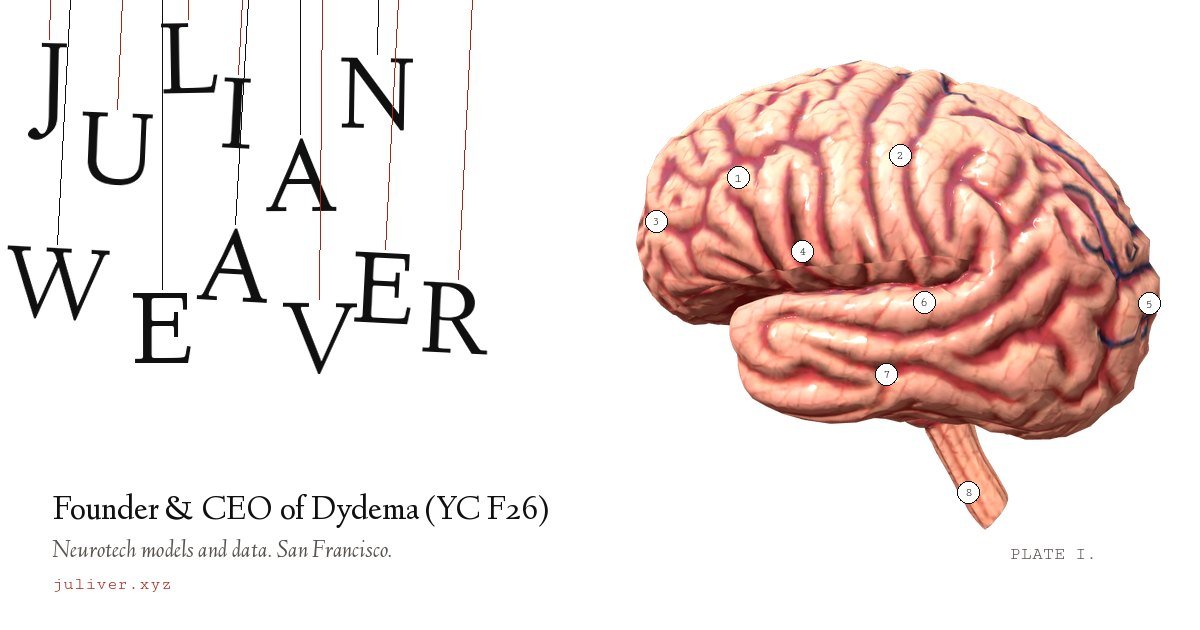
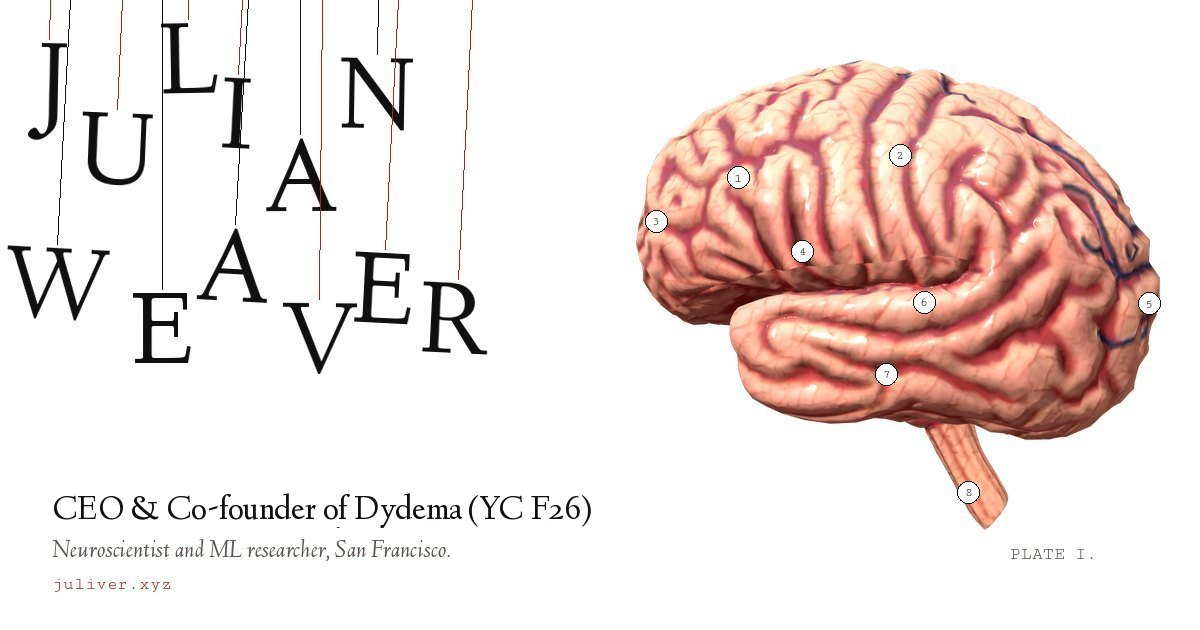
New site: specimen plate, fluid, SEO

Changed region(s): [[0.0308, 0.7841, 0.4933, 0.9048]]

diff --git a/docs/index.html b/docs/index.html
@@ -4,8 +4,8 @@
     <meta charset="UTF-8">
     <meta name="viewport" content="width=device-width, initial-scale=1">
 
-    <title>Julian Weaver (juliver) | Founder &amp; CEO of Dydema</title>
-    <meta name="description" content="Julian Weaver (juliver) is the founder and CEO of Dydema (YC F26), a neurotech model and data company. Neuroscientist and ML researcher in San Francisco.">
+    <title>Julian Weaver (juliver) | Co-founder &amp; CEO of Dydema</title>
+    <meta name="description" content="Julian Weaver (juliver) is the CEO and co-founder of Dydema (YC F26), a neurotech model and data company. Neuroscientist and ML researcher in San Francisco.">
     <meta name="author" content="Julian Weaver">
     <meta name="robots" content="index, follow, max-image-preview:large">
     <link rel="canonical" href="https://juliver.xyz/">
@@ -14,21 +14,21 @@
     <meta property="og:type" content="profile">
     <meta property="og:site_name" content="juliver.xyz">
     <meta property="og:url" content="https://juliver.xyz/">
-    <meta property="og:title" content="Julian Weaver (juliver) | Founder &amp; CEO of Dydema">
-    <meta property="og:description" content="Founder &amp; CEO of Dydema (YC F26), a neurotech model and data company. Neuroscientist and ML researcher in San Francisco.">
+    <meta property="og:title" content="Julian Weaver (juliver) | Co-founder &amp; CEO of Dydema">
+    <meta property="og:description" content="CEO &amp; co-founder of Dydema (YC F26), a neurotech model and data company. Neuroscientist and ML researcher in San Francisco.">
     <meta property="og:image" content="https://juliver.xyz/assets/images/julian-weaver-og.jpg">
     <meta property="og:image:width" content="1200">
     <meta property="og:image:height" content="630">
-    <meta property="og:image:alt" content="Julian Weaver, Founder &amp; CEO of Dydema">
+    <meta property="og:image:alt" content="Julian Weaver, CEO &amp; co-founder of Dydema">
     <meta property="og:locale" content="en_US">
     <meta property="profile:first_name" content="Julian">
     <meta property="profile:last_name" content="Weaver">
     <meta property="profile:username" content="juliver">
     <meta name="twitter:card" content="summary_large_image">
-    <meta name="twitter:site" content="@juliverian">
-    <meta name="twitter:creator" content="@juliverian">
-    <meta name="twitter:title" content="Julian Weaver (juliver) | Founder &amp; CEO of Dydema">
-    <meta name="twitter:description" content="Founder &amp; CEO of Dydema (YC F26), a neurotech model and data company.">
+    <meta name="twitter:site" content="@real_juliver">
+    <meta name="twitter:creator" content="@real_juliver">
+    <meta name="twitter:title" content="Julian Weaver (juliver) | Co-founder &amp; CEO of Dydema">
+    <meta name="twitter:description" content="CEO &amp; co-founder of Dydema (YC F26), a neurotech model and data company.">
     <meta name="twitter:image" content="https://juliver.xyz/assets/images/julian-weaver-og.jpg">
 
     <link rel="icon" href="/favicon.ico" sizes="any">
@@ -65,7 +65,7 @@
             "@type": "ProfilePage",
             "@id": "https://juliver.xyz/#profilepage",
             "url": "https://juliver.xyz/",
-            "name": "Julian Weaver (juliver) | Founder & CEO of Dydema",
+            "name": "Julian Weaver (juliver) | Co-founder & CEO of Dydema",
             "isPartOf": {
                 "@id": "https://juliver.xyz/#website"
             },
@@ -96,11 +96,11 @@
                 "height": 330,
                 "caption": "Julian Weaver"
             },
-            "jobTitle": "Founder & CEO",
+            "jobTitle": "CEO & Co-founder",
             "worksFor": {
                 "@id": "https://dydema.com/#organization"
             },
-            "description": "Julian Weaver (juliver) is the founder and CEO of Dydema (YC F26), a neurotech model and data company that serves general embedding models for neurotech and records neurodata for other teams. He is a neuroscientist and machine learning researcher based in San Francisco.",
+            "description": "Julian Weaver (juliver) is the CEO and co-founder of Dydema (YC F26), a neurotech model and data company that serves general embedding models for neurotech modalities like EEG and records neurodata for other teams. He is a neuroscientist and machine learning researcher based in San Francisco.",
             "birthDate": "2004-11-23",
             "email": "mailto:juliver@dydema.com",
             "homeLocation": {
@@ -133,14 +133,13 @@
             ],
             "sameAs": [
                 "https://www.linkedin.com/in/julian-weaver/",
-                "https://x.com/juliverian",
+                "https://x.com/real_juliver",
                 "https://github.com/weavejul",
-                "https://juliverian.substack.com/",
                 "https://bsky.app/profile/juliverian.bsky.social",
                 "https://www.instagram.com/official_julian_weaver/",
                 "https://orcid.org/0009-0008-6358-170X"
             ],
-            "disambiguatingDescription": "Founder and CEO of Dydema; neuroscientist and machine learning researcher in San Francisco.",
+            "disambiguatingDescription": "CEO and co-founder of Dydema; neuroscientist and machine learning researcher in San Francisco.",
             "identifier": {
                 "@type": "PropertyValue",
                 "propertyID": "ORCID",
@@ -155,7 +154,7 @@
             "@id": "https://dydema.com/#organization",
             "name": "Dydema",
             "url": "https://dydema.com/",
-            "description": "Dydema is a neurotech model and data company. It serves general embedding models for neurotech and records neurodata for other teams.",
+            "description": "Dydema is a neurotech model and data company. It serves general embedding models for neurotech modalities like EEG and records neurodata for other teams.",
             "founder": {
                 "@id": "https://juliver.xyz/#person"
             }
@@ -246,17 +245,17 @@
         .hero { position: relative; height: 100vh; height: 100svh; min-height: 560px; overflow: hidden; touch-action: pan-y; }
         .name { margin: 0; font: inherit; position: absolute; inset: 0; text-transform: uppercase; }
         .name .l {
-            --L: calc(var(--len) * 1svh);
-            position: absolute; top: 0; left: var(--x); width: 0; height: calc(var(--L) + 1em);
+            --L: calc(var(--len) * 1svh); --dx: 0em; --ay: 0.045em;
+            position: absolute; top: 0; left: calc(var(--x) - var(--dx)); width: 0; height: calc(var(--L) + 1em);
             font-family: var(--serif); font-size: clamp(4.4rem, 10vw, 12rem); line-height: 1;
             transform-origin: 0 0; will-change: transform;
         }
         .name .l::before {
-            content: ''; position: absolute; left: 0; top: 0; width: 1px; height: calc(var(--L) + 0.14em);
+            content: ''; position: absolute; left: 0; top: 0; width: 1px; height: calc(var(--L) + 0.02em);
             background: var(--ink); opacity: 0.5;
         }
         .name .jv::before { background: var(--blood); opacity: 0.9; }
-        .name .g { position: absolute; top: var(--L); left: 0; transform: translateX(-50%); cursor: grab; user-select: none; -webkit-user-select: none; touch-action: none; }
+        .name .g { position: absolute; top: calc(var(--L) - var(--ay)); left: var(--dx); transform: translateX(-50%); cursor: grab; user-select: none; -webkit-user-select: none; touch-action: none; }
         .name .l.held .g { cursor: grabbing; color: var(--blood); }
         .hero p { margin: 0; position: absolute; }
         .hero-role { right: var(--gutter); bottom: 5svh; width: min(25rem, 36vw); text-align: right; font-size: clamp(1.05rem, 1.3vw, 1.3rem); line-height: 1.35; }
@@ -371,7 +370,7 @@
         /* ---------------- Contact ---------------- */
         .contact { padding: clamp(4rem, 12vh, 8rem) var(--gutter) 2rem; display: grid; grid-template-columns: 1fr auto; gap: 2rem 4rem; align-items: end; border-top: 1px solid var(--ink); }
         .contact h2 { font-weight: 400; margin: 0 0 1rem; color: var(--ink-2); }
-        .big-mail { margin: 0; font-size: clamp(2.2rem, 7.6vw, 7.4rem); line-height: 0.95; letter-spacing: -0.015em; overflow-wrap: anywhere; }
+        .big-mail { margin: 0; font-size: clamp(2.2rem, 7.6vw, 7.4rem); line-height: 0.95; letter-spacing: -0.015em; overflow-wrap: break-word; }
         .big-mail a { text-decoration: none; }
         .contact .where { margin: 0.8rem 0 0; }
         .contact .elsewhere { margin: 1.6rem 0 0; font-size: 1.15rem; max-width: 40rem; }
@@ -383,13 +382,15 @@
         .foot p { margin: 0; }
 
         @media (max-width: 700px) {
-            .name .l { left: var(--xm); --L: calc(var(--lenm) * 1svh); font-size: 17vw; }
+            .name .l { left: calc(var(--xm) - var(--dx)); --L: calc(var(--lenm) * 1svh); font-size: 17vw; }
             .hero-role { left: var(--gutter); right: var(--gutter); bottom: calc(5svh + 2.2rem); width: auto; text-align: left; }
             .dydema, .index { grid-template-columns: 1fr; }
             .dydema > .t, .index > h2 { padding-top: 0; }
             .dydema .coda { grid-column: 1; }
             .ix li { flex-direction: column; gap: 0; }
             .ix .k { text-align: left; white-space: normal; }
+        }
+        @media (max-width: 900px) {
             .contact { grid-template-columns: 1fr; }
         }
         @media (prefers-reduced-motion: reduce) {
@@ -401,9 +402,9 @@
     <a class="skip" href="#dydema">Skip to content</a>
 
     <header class="hero">
-        <h1 class="name"><span class="l jv" style="--x:5%;--len:9;--xm:5%;--lenm:6"><span class="g">J</span></span><span class="l jv" style="--x:13.5%;--len:21;--xm:21%;--lenm:13"><span class="g">u</span></span><span class="l jv" style="--x:21%;--len:5;--xm:36%;--lenm:4"><span class="g">l</span></span><span class="l jv" style="--x:28%;--len:15;--xm:48%;--lenm:10"><span class="g">i</span></span><span class="l" style="--x:35.5%;--len:25;--xm:63%;--lenm:16"><span class="g">a</span></span><span class="l" style="--x:45%;--len:11;--xm:81%;--lenm:7"><span class="g">n</span></span> <span class="l" style="--x:24%;--len:46;--xm:9%;--lenm:34"><span class="g">W</span></span><span class="l" style="--x:37%;--len:53;--xm:27%;--lenm:41"><span class="g">e</span></span><span class="l" style="--x:48.5%;--len:42;--xm:43%;--lenm:31"><span class="g">a</span></span><span class="l jv" style="--x:60%;--len:50;--xm:57%;--lenm:43"><span class="g">v</span></span><span class="l jv" style="--x:71%;--len:43;--xm:72%;--lenm:36"><span class="g">e</span></span><span class="l jv" style="--x:82%;--len:48;--xm:87%;--lenm:40"><span class="g">r</span></span></h1>
+        <h1 class="name"><span class="l jv" style="--x:5%;--len:9;--xm:5%;--lenm:6"><span class="g">J</span></span><span class="l jv" style="--x:13.5%;--len:21;--xm:21%;--lenm:13;--dx:0.215em"><span class="g">u</span></span><span class="l jv" style="--x:21%;--len:5;--xm:36%;--lenm:4;--dx:0.136em"><span class="g">l</span></span><span class="l jv" style="--x:28%;--len:15;--xm:48%;--lenm:10"><span class="g">i</span></span><span class="l" style="--x:35.5%;--len:25;--xm:63%;--lenm:16;--ay:0.021em"><span class="g">a</span></span><span class="l" style="--x:45%;--len:11;--xm:81%;--lenm:7;--dx:-0.238em"><span class="g">n</span></span> <span class="l" style="--x:24%;--len:46;--xm:11%;--lenm:34"><span class="g">W</span></span><span class="l" style="--x:37%;--len:53;--xm:27%;--lenm:41"><span class="g">e</span></span><span class="l" style="--x:48.5%;--len:42;--xm:43%;--lenm:31;--ay:0.021em"><span class="g">a</span></span><span class="l jv" style="--x:60%;--len:50;--xm:57%;--lenm:43;--dx:0.229em"><span class="g">v</span></span><span class="l jv" style="--x:71%;--len:43;--xm:72%;--lenm:36"><span class="g">e</span></span><span class="l jv" style="--x:82%;--len:48;--xm:87%;--lenm:40;--ay:0.05em"><span class="g">r</span></span></h1>
 
-        <p class="hero-role"><span class="co">Founder &amp; CEO of <a href="https://dydema.com/">Dydema</a></span>We make neuro models and record neurodata. YC F26.<br>I'm a neuroscientist and ML researcher in San Francisco.<br><a class="mail" href="mailto:juliver@dydema.com">juliver@dydema.com</a></p>
+        <p class="hero-role"><span class="co">CEO &amp; Co-founder of <a href="https://dydema.com/">Dydema</a></span>We make neuro models and record neurodata. YC F26.<br>I'm a neuroscientist and ML researcher based in SF.<br><a class="mail" href="mailto:juliver@dydema.com">juliver@dydema.com</a></p>
         <p class="hero-alias t"><b>JULI</b>an wea<b>VER</b>, or juliver</p>
     </header>
 
@@ -413,18 +414,18 @@
             <div>
                 <h2 class="headword" id="dydema-h"><a href="https://dydema.com/">Dydema</a><i>n.</i></h2>
                 <ol class="senses">
-                    <li><em>Models.</em> We make general embedding models for neurotech and serve them to other teams.</li>
+                    <li><em>Models.</em> We serve general embedding models for neurotech modalities like EEG.</li>
                     <li><em>Data.</em> We record neurodata for other teams.</li>
                 </ol>
             </div>
-            <p class="coda">I'm the founder and CEO. We're in Y Combinator's F26 batch. <a href="https://dydema.com/">dydema.com</a></p>
+            <p class="coda">I'm CEO and co-founder. We're in Y Combinator's F26 batch. <a href="https://dydema.com/">dydema.com</a></p>
         </section>
 
         <section class="plate" id="brain" aria-labelledby="plate-h">
             <div class="plate-head">
                 <div>
                     <p class="t" style="margin:0">PLATE I.</p>
-                    <h2 id="plate-h">Hey! I'm Julian Weaver's brain.</h2>
+                    <h2 id="plate-h">Hey! I'm Juliver's brain.</h2>
                 </div>
                 <p class="t">Left lateral view. Drag to rotate.<br><span id="poke">Do you typically poke at exposed brain matter?</span></p>
             </div>
@@ -440,27 +441,27 @@
                     <li class="lab lab-motor" data-r="motor">
                         <h3><span class="num">2</span>Precentral gyrus</h3>
                         <p class="fn">movement</p>
-                        <p class="fact">I rock climb. I also built an electric guitar, and led the design of a cheap, open-source EEG headset for hobbyists and researchers. It has outlived my time at UT!</p>
+                        <p class="fact">I rock climb. On the weekends you can often catch me at an SF techno event.</p>
                     </li>
                     <li class="lab lab-frontalpole" data-r="frontalpole">
                         <h3><span class="num">3</span>Frontal pole</h3>
-                        <p class="fn">thinking about the future</p>
-                        <p class="fact">I care about what I call &ldquo;intelligence&rdquo; safety. That is, safety in how we build our AI models and, just as importantly in my opinion, how we interact with the brain. Both are ripe with the potential for <span class="wavy">man made horrors</span>. We need to tread carefully!</p>
+                        <p class="fn">prospection</p>
+                        <p class="fact">I care about &ldquo;intelligence&rdquo; safety. That is, safety in how we build our AI models and, just as importantly in my opinion, how we interact with the brain. Both are ripe with the potential for <span class="wavy">man made horrors</span>. Tread carefully.</p>
                     </li>
                     <li class="lab lab-broca" data-r="broca">
                         <h3><span class="num">4</span>Broca's area</h3>
                         <p class="fn">speech</p>
-                        <p class="fact">I co-founded <a href="https://www.linkedin.com/company/lhneurotech">Longhorn Neurotech</a> during my time at UT Austin. My goal was to educate as many people as possible on the opportunities and dangers of neurotechnology and AI, and it grew into the largest organization of its kind in the world. I also launched a short <a href="https://github.com/LonghornNeurotech/LHNT-Synposium/tree/main">lecture series</a> on NeuroAI, neurotech, and ethics.</p>
+                        <p class="fact">I co-founded <a href="https://www.linkedin.com/company/lhneurotech">Longhorn Neurotech</a> during my time at UT Austin. My goal was to educate as many people as possible on the opportunities and dangers of neurotechnology and AI, and it grew into the largest organization of its kind in the world. I also launched and taught a <a href="https://github.com/LonghornNeurotech/LHNT-Synposium/tree/main">lecture series</a> on NeuroAI, neurotech, and ethics.</p>
                     </li>
                     <li class="lab lab-visual" data-r="visual">
                         <h3><span class="num">5</span>Occipital pole</h3>
                         <p class="fn">vision</p>
-                        <p class="fact">At UT I launched a project using XAI and neuroimaging to explain black-box fMRI models that classify neurological disorders. It's ongoing, and it yielded a new general-purpose XAI method, <a href="https://arxiv.org/abs/2509.23585">EVO-LRP</a>.</p>
+                        <p class="fact">At UT I launched a project using XAI and neuroimaging to explain black-box fMRI models that classify neurological disorders. It yielded a new general-purpose XAI method, <a href="https://arxiv.org/abs/2509.23585">EVO-LRP</a>.</p>
                     </li>
                     <li class="lab lab-auditory" data-r="auditory">
                         <h3><span class="num">6</span>Superior temporal gyrus</h3>
                         <p class="fn">hearing</p>
-                        <p class="fact">I produce music. I've led a string quartet and performed at the Kennedy Center for the US Senate.</p>
+                        <p class="fact">I produce music. I've led a string quartet and performed at the Kennedy Center.</p>
                     </li>
                     <li class="lab lab-hippocampus" data-r="hippocampus">
                         <h3><span class="num">7</span>Hippocampus (deep)</h3>
@@ -503,27 +504,20 @@
         <section class="index" id="index" aria-labelledby="index-h">
             <h2 class="t" id="index-h">Index</h2>
             <ul class="ix">
-                <li><a class="n" href="https://dydema.com/">Dydema</a><span class="k t">company, founder &amp; CEO</span></li>
-                <li><a class="n" href="https://arxiv.org/abs/2509.23585">EVO-LRP: Evolutionary Optimization of LRP for Interpretable Model Explanations</a><span class="k t">paper, 2025</span></li>
-                <li><span class="n">Explaining black-box fMRI models</span><span class="k t">research, UT Austin</span></li>
-                <li><a class="n" href="https://www.linkedin.com/company/lhneurotech">Longhorn Neurotech</a><span class="k t">co-founder</span></li>
-                <li><a class="n" href="https://github.com/LonghornNeurotech/LHNT-Synposium/tree/main">Lecture series on NeuroAI, neurotech &amp; ethics</a><span class="k t">talks</span></li>
-                <li><span class="n">Open-source EEG headset</span><span class="k t">hardware, design lead</span></li>
-                <li><span class="n">Enhanced RNA import and associative learning in <i>C.&nbsp;elegans</i></span><span class="k t">biology</span></li>
-                <li><span class="n">LLM-powered procedurally generated dungeon crawler</span><span class="k t">game</span></li>
-                <li><span class="n">An electric guitar</span><span class="k t">built</span></li>
-                <li><span class="n">A string quartet</span><span class="k t">led</span></li>
-                <li><span class="n">The Kennedy Center, for the US Senate</span><span class="k t">performed</span></li>
-                <li><a class="n" href="https://juliverian.substack.com/">juliverian.substack.com</a><span class="k t">writing</span></li>
+                <li><a class="n" href="https://dydema.com/">Dydema</a><span class="k t">company, CEO &amp; co-founder</span></li>
+                <li><a class="n" href="https://www.linkedin.com/company/lhneurotech">Longhorn Neurotech</a><span class="k t">co-founder, R&amp;D Director</span></li>
+                <li><a class="n" href="https://arxiv.org/abs/2509.23585">EVO-LRP: Evolutionary Optimization of LRP for Interpretable Model Explanations</a><span class="k t">co-wrote</span></li>
+                <li><a class="n" href="https://github.com/LonghornNeurotech/LHNT-Synposium/tree/main">Lecture series on NeuroAI, neurotech &amp; ethics</a><span class="k t">wrote &amp; taught</span></li>
+                <li><a class="n" href="https://www.youtube.com/watch?v=k8bobFK5Gi4">The Kennedy Center</a><span class="k t">performed</span></li>
             </ul>
         </section>
 
         <section class="contact" id="contact" aria-labelledby="contact-h">
             <div>
                 <h2 class="t" id="contact-h">Contact</h2>
-                <p class="big-mail"><a href="mailto:juliver@dydema.com">juliver@dydema.com</a></p>
+                <p class="big-mail"><a href="mailto:juliver@dydema.com">juliver@<wbr>dydema.com</a></p>
                 <p class="where">San Francisco, California</p>
-                <p class="elsewhere"><a href="https://www.linkedin.com/in/julian-weaver/" rel="me">LinkedIn</a> / <a href="https://x.com/juliverian" rel="me">X</a> / <a href="https://github.com/weavejul" rel="me">GitHub</a> / <a href="https://juliverian.substack.com/" rel="me">Substack</a> / <a href="https://bsky.app/profile/juliverian.bsky.social" rel="me">Bluesky</a> / <a href="https://www.instagram.com/official_julian_weaver/" rel="me">Instagram</a> / <a href="https://orcid.org/0009-0008-6358-170X" rel="me">ORCID</a></p>
+                <p class="elsewhere"><a href="https://www.linkedin.com/in/julian-weaver/" rel="me">LinkedIn</a> / <a href="https://x.com/real_juliver" rel="me">X</a> / <a href="https://github.com/weavejul" rel="me">GitHub</a> / <a href="https://bsky.app/profile/juliverian.bsky.social" rel="me">Bluesky</a> / <a href="https://www.instagram.com/official_julian_weaver/" rel="me">Instagram</a> / <a href="https://orcid.org/0009-0008-6358-170X" rel="me">ORCID</a></p>
                 <p class="friends">Check out some of my friends! (In lexicographical order) <a href="https://akibaten.xyz">akibaten.xyz</a>, <a href="https://benaubin.com">benaubin.com</a>, <a href="https://bengentry.com">bengentry.com</a>, <a href="https://chrisoosthuizen.com">chrisoosthuizen.com</a>, <a href="https://eidna.me">eidna.me</a>, <a href="https://junelc.xyz">junelc.xyz</a>, <a href="https://prydt.xyz">prydt.xyz</a></p>
             </div>
             <figure class="photo">
@@ -531,7 +525,7 @@
                 <figcaption class="t">Julian Weaver (juliver)</figcaption>
             </figure>
             <footer class="foot t">
-                <p>juliver.xyz is the personal site of Julian Weaver, also known as juliver, founder and CEO of Dydema. &copy; 2026</p>
+                <p>juliver.xyz is the personal site of Julian Weaver, also known as juliver, co-founder and CEO of Dydema. &copy; 2026</p>
                 <p>Brain model: <a href="https://skfb.ly/6YqDO">&ldquo;human-brain&rdquo;</a> by Yash_Dandavate, <a href="https://creativecommons.org/licenses/by/4.0/">CC BY 4.0</a>. Fluid after <a href="https://github.com/PavelDoGreat/WebGL-Fluid-Simulation">Pavel Dobryakov</a>.</p>
             </footer>
         </section>

diff --git a/docs/js/home.js b/docs/js/home.js
@@ -52,7 +52,7 @@
       return {
         el: el, glyph: el.querySelector('.g'),
         a: reduceMotion ? 0 : (Math.random() - 0.5) * 0.24, v: 0,
-        L: 300, px: 0, py: 0, drag: false
+        L: 300, px: 0, py: 0, ox: 0, oy: 300, grab: 0, drag: false
       };
     });
     function paint(s) { s.el.style.transform = 'rotate(' + (-s.a) + 'rad)'; }
@@ -63,7 +63,8 @@
         s.el.style.transform = 'none';
         var er = s.el.getBoundingClientRect(), gr = s.glyph.getBoundingClientRect();
         s.px = er.left - hr.left; s.py = er.top - hr.top;
-        s.L = Math.max(80, (gr.top + gr.height / 2) - er.top);
+        s.ox = (gr.left + gr.width / 2) - er.left; s.oy = (gr.top + gr.height / 2) - er.top;
+        s.L = Math.max(80, Math.hypot(s.ox, s.oy));
         paint(s);
       });
     }
@@ -76,7 +77,8 @@
         var vx = (x - last.x) / (Math.max(8, t - last.t) / 1000);
         state.forEach(function (s) {
           if (s.drag) return;
-          var gx = s.px + Math.sin(s.a) * s.L, gy = s.py + Math.cos(s.a) * s.L;
+          var ca = Math.cos(s.a), sa = Math.sin(s.a);
+          var gx = s.px + s.ox * ca + s.oy * sa, gy = s.py - s.ox * sa + s.oy * ca;
           var d = Math.hypot(x - gx, y - gy);
           if (d < 110) s.v += (vx / s.L) * 0.05 * (1 - d / 110);
         });
@@ -88,15 +90,18 @@
 
     state.forEach(function (s) {
       var prev = null;
+      function angleAt(e) {
+        var hr = hero.getBoundingClientRect();
+        return Math.atan2(e.clientX - hr.left - s.px, Math.max(20, e.clientY - hr.top - s.py));
+      }
       s.glyph.addEventListener('pointerdown', function (e) {
         e.preventDefault();
         s.glyph.setPointerCapture(e.pointerId);
-        s.drag = true; prev = null; s.el.classList.add('held'); start();
+        s.drag = true; prev = null; s.grab = angleAt(e) - s.a; s.el.classList.add('held'); start();
       });
       s.glyph.addEventListener('pointermove', function (e) {
         if (!s.drag) return;
-        var hr = hero.getBoundingClientRect();
-        var a = Math.atan2(e.clientX - hr.left - s.px, Math.max(20, e.clientY - hr.top - s.py));
+        var a = angleAt(e) - s.grab;
         a = Math.max(-1.3, Math.min(1.3, a));
         var t = performance.now();
         if (prev) s.v = (a - prev.a) / Math.max(0.008, (t - prev.t) / 1000);
@@ -152,7 +157,7 @@
     var poke = document.getElementById('poke');
     if (poke) {
       var day = new Date().toLocaleDateString('en-US', { weekday: 'long' });
-      poke.textContent = '(It’s ' + day + '. Do you typically poke at exposed brain matter on ' + day + 's?)';
+      poke.textContent = '(Do you typically poke at exposed brain matter on ' + day + 's?)';
     }
 
     // Surface points in model space, raycast from the left lateral view, with normals.

diff --git a/docs/js/csf-fluid.js b/docs/js/csf-fluid.js
@@ -1745,9 +1745,8 @@ function localPos(e) {
     var r = canvas.getBoundingClientRect();
     return [scaleByPixelRatio(e.clientX - r.left), scaleByPixelRatio(e.clientY - r.top)];
 }
-host.addEventListener('pointermove', function (e) {
+function stir(id, e) {
     var p = localPos(e);
-    var id = e.pointerType === 'mouse' ? -1 : e.pointerId;
     var pointer = pointers.find(function (q) { return q.id == id; });
     if (!pointer) {
         pointer = pointers.find(function (q) { return !q.down; }) || new pointerPrototype();
@@ -1757,15 +1756,32 @@ host.addEventListener('pointermove', function (e) {
     }
     if (!pointer.down) { updatePointerDownData(pointer, id, p[0], p[1]); return; }
     updatePointerMoveData(pointer, p[0], p[1]);
-}, { passive: true });
-function release(e) {
-    var id = e.pointerType === 'mouse' ? -1 : e.pointerId;
+}
+function releaseId(id) {
     var pointer = pointers.find(function (q) { return q.id == id; });
     if (pointer) { updatePointerUpData(pointer); pointer.id = -2; }
+}
+// Mouse and pen stir on hover. Touch uses passive touch events instead, because pointer
+// events stop as soon as the page starts scrolling; this way a finger stirs while it scrolls.
+host.addEventListener('pointermove', function (e) {
+    if (e.pointerType === 'touch') return;
+    stir(e.pointerType === 'mouse' ? -1 : e.pointerId, e);
+}, { passive: true });
+function release(e) {
+    if (e.pointerType === 'touch') return;
+    releaseId(e.pointerType === 'mouse' ? -1 : e.pointerId);
 }
 host.addEventListener('pointerleave', release, { passive: true });
 host.addEventListener('pointercancel', release, { passive: true });
 host.addEventListener('pointerup', function (e) { if (e.pointerType !== 'mouse') release(e); }, { passive: true });
+host.addEventListener('touchmove', function (e) {
+    for (var i = 0; i < e.changedTouches.length; i++) stir('t' + e.changedTouches[i].identifier, e.changedTouches[i]);
+}, { passive: true });
+function touchEnd(e) {
+    for (var i = 0; i < e.changedTouches.length; i++) releaseId('t' + e.changedTouches[i].identifier);
+}
+host.addEventListener('touchend', touchEnd, { passive: true });
+host.addEventListener('touchcancel', touchEnd, { passive: true });
 }
 
 function updatePointerDownData (pointer, id, posX, posY) {
